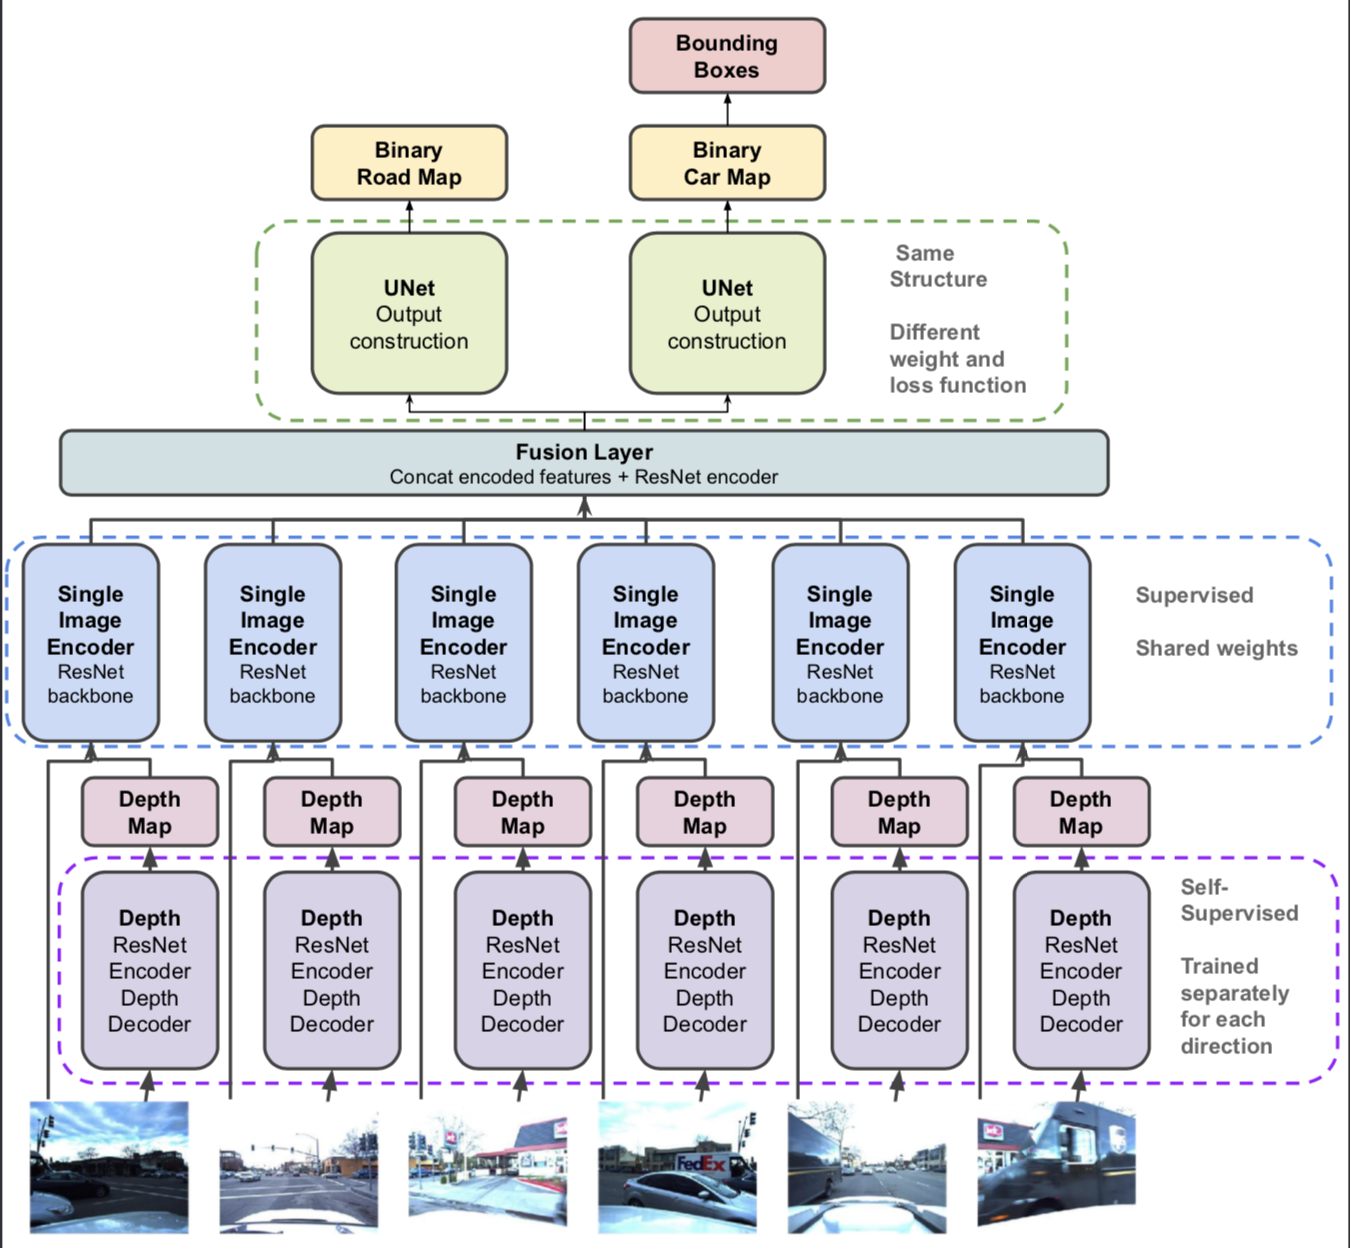
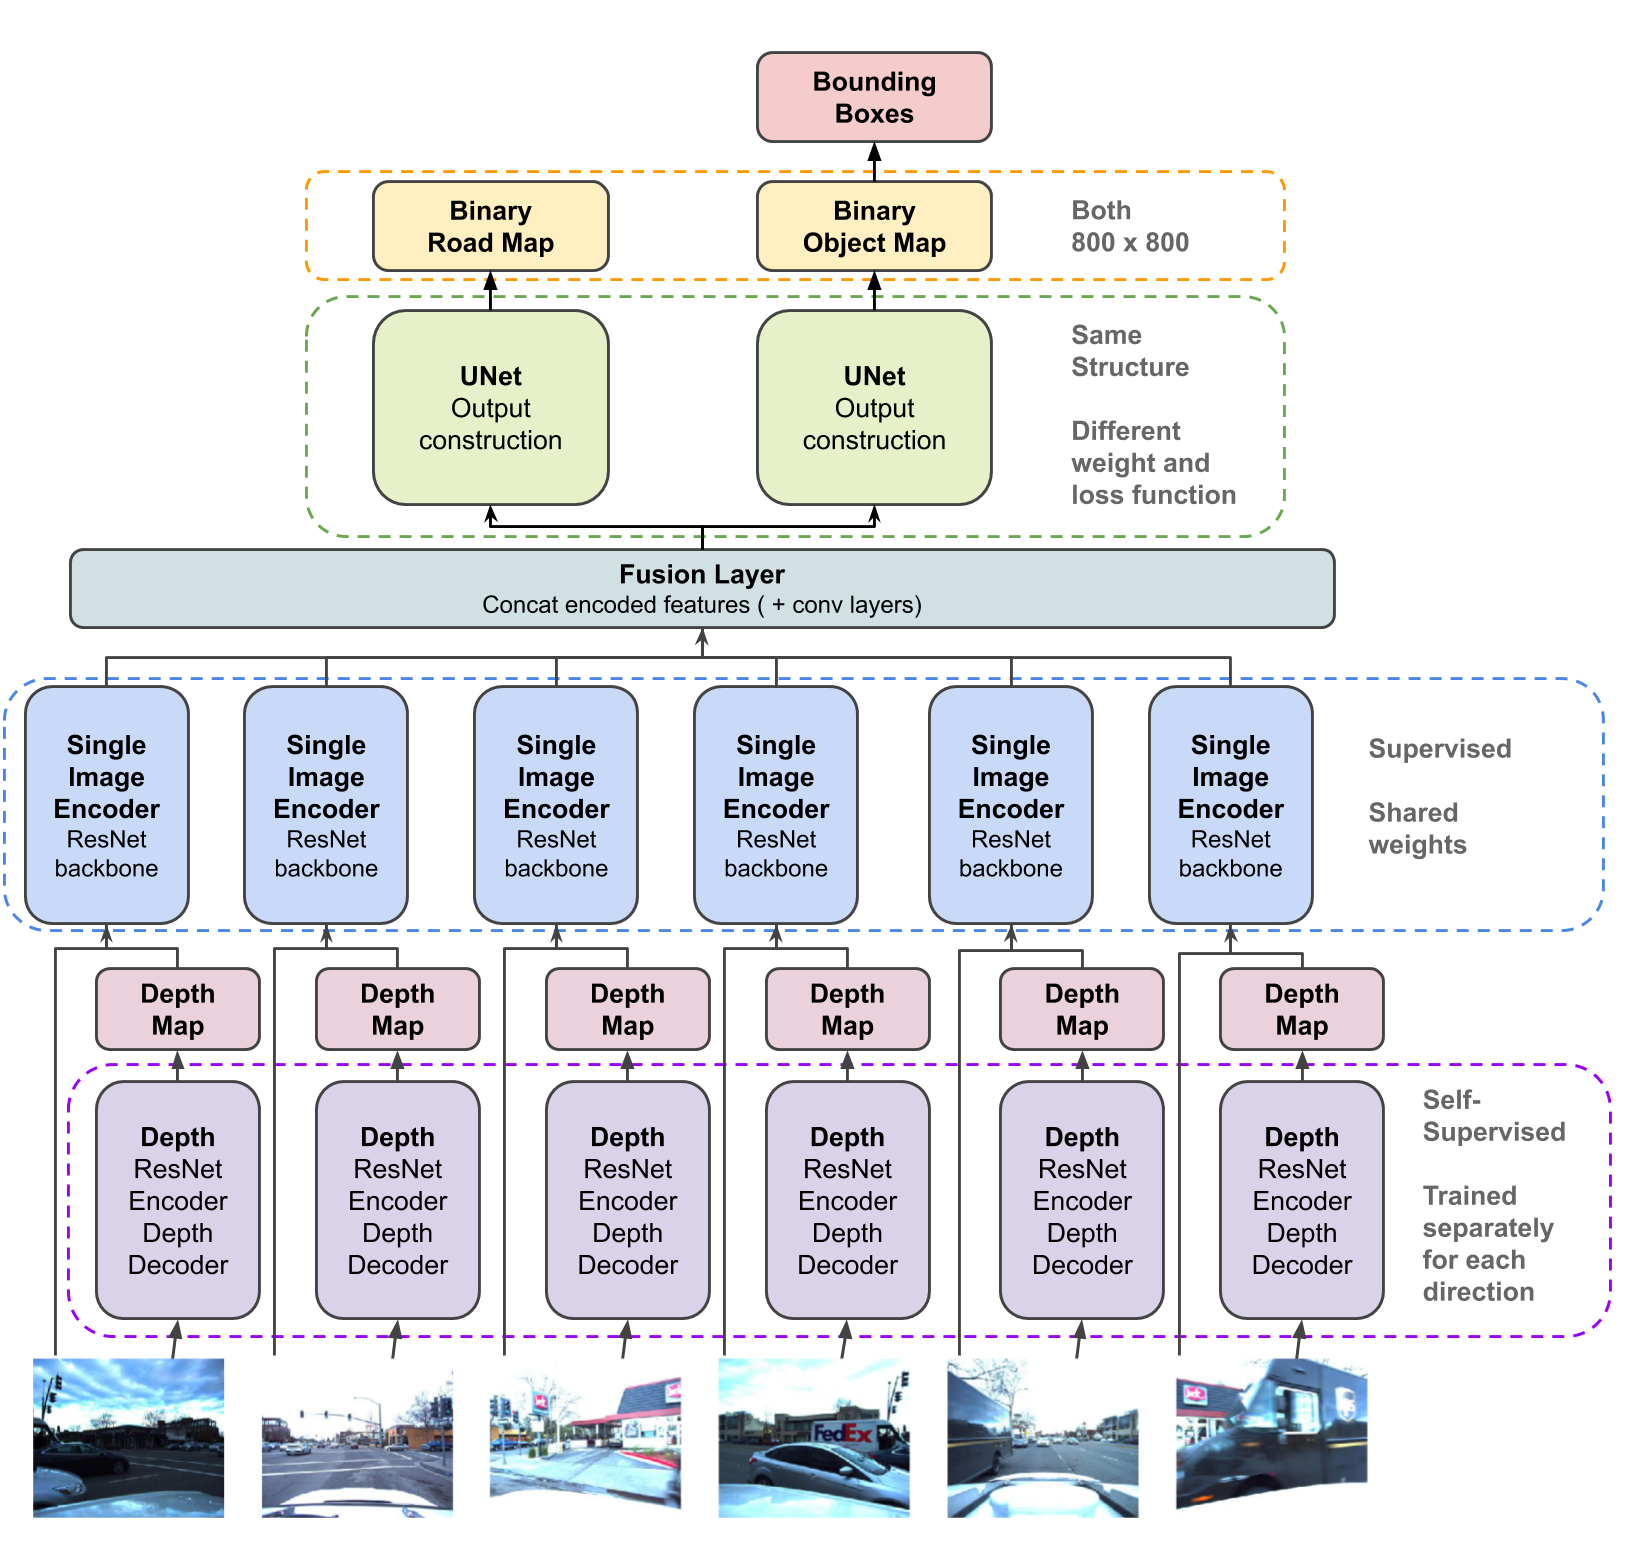
Update architecture image.

Changed region(s): [[0.0, 0.0, 1.0, 1.0], [0.84, 0.4688, 0.9644, 0.5625]]

diff --git a/README.md b/README.md
@@ -5,14 +5,14 @@ working repository for dl final project
 
 ### Abstract 
 
-### Model architecture 
-![alt text](https://github.com/yingj1n/HexaLayout/blob/master/model_architecture.png)
+### Model architecture
+<img src="model_architecture.png" width="600">
 
 ### Usage 
-Our implementation does not rely on any pre-trained networks, rather it is all built from stratch. To fully utilize our model, please download dataset from [here](https://drive.google.com/drive/folders/1wXQmPyoEGkHB8Jq2uZ2uSZa7TgLhw3Mb). 
+Our implementation does not rely on any pre-trained networks, rather it is all built from scratch. To fully utilize our model, please download dataset from [here](https://drive.google.com/drive/folders/1wXQmPyoEGkHB8Jq2uZ2uSZa7TgLhw3Mb).
 
-**Train Unet Decoder** <br>
+**Train HexaLayout** <br>
 run `python train_unet.py --folder_dir ./DLSP20Dataset/`
 
-**Train Unet Decoder with Discriminator** <br>
+**Train HexaLayout with Discriminator** <br>
 run `python train_unet_discri.py --folder_dir ./DLSP20Dataset/`
